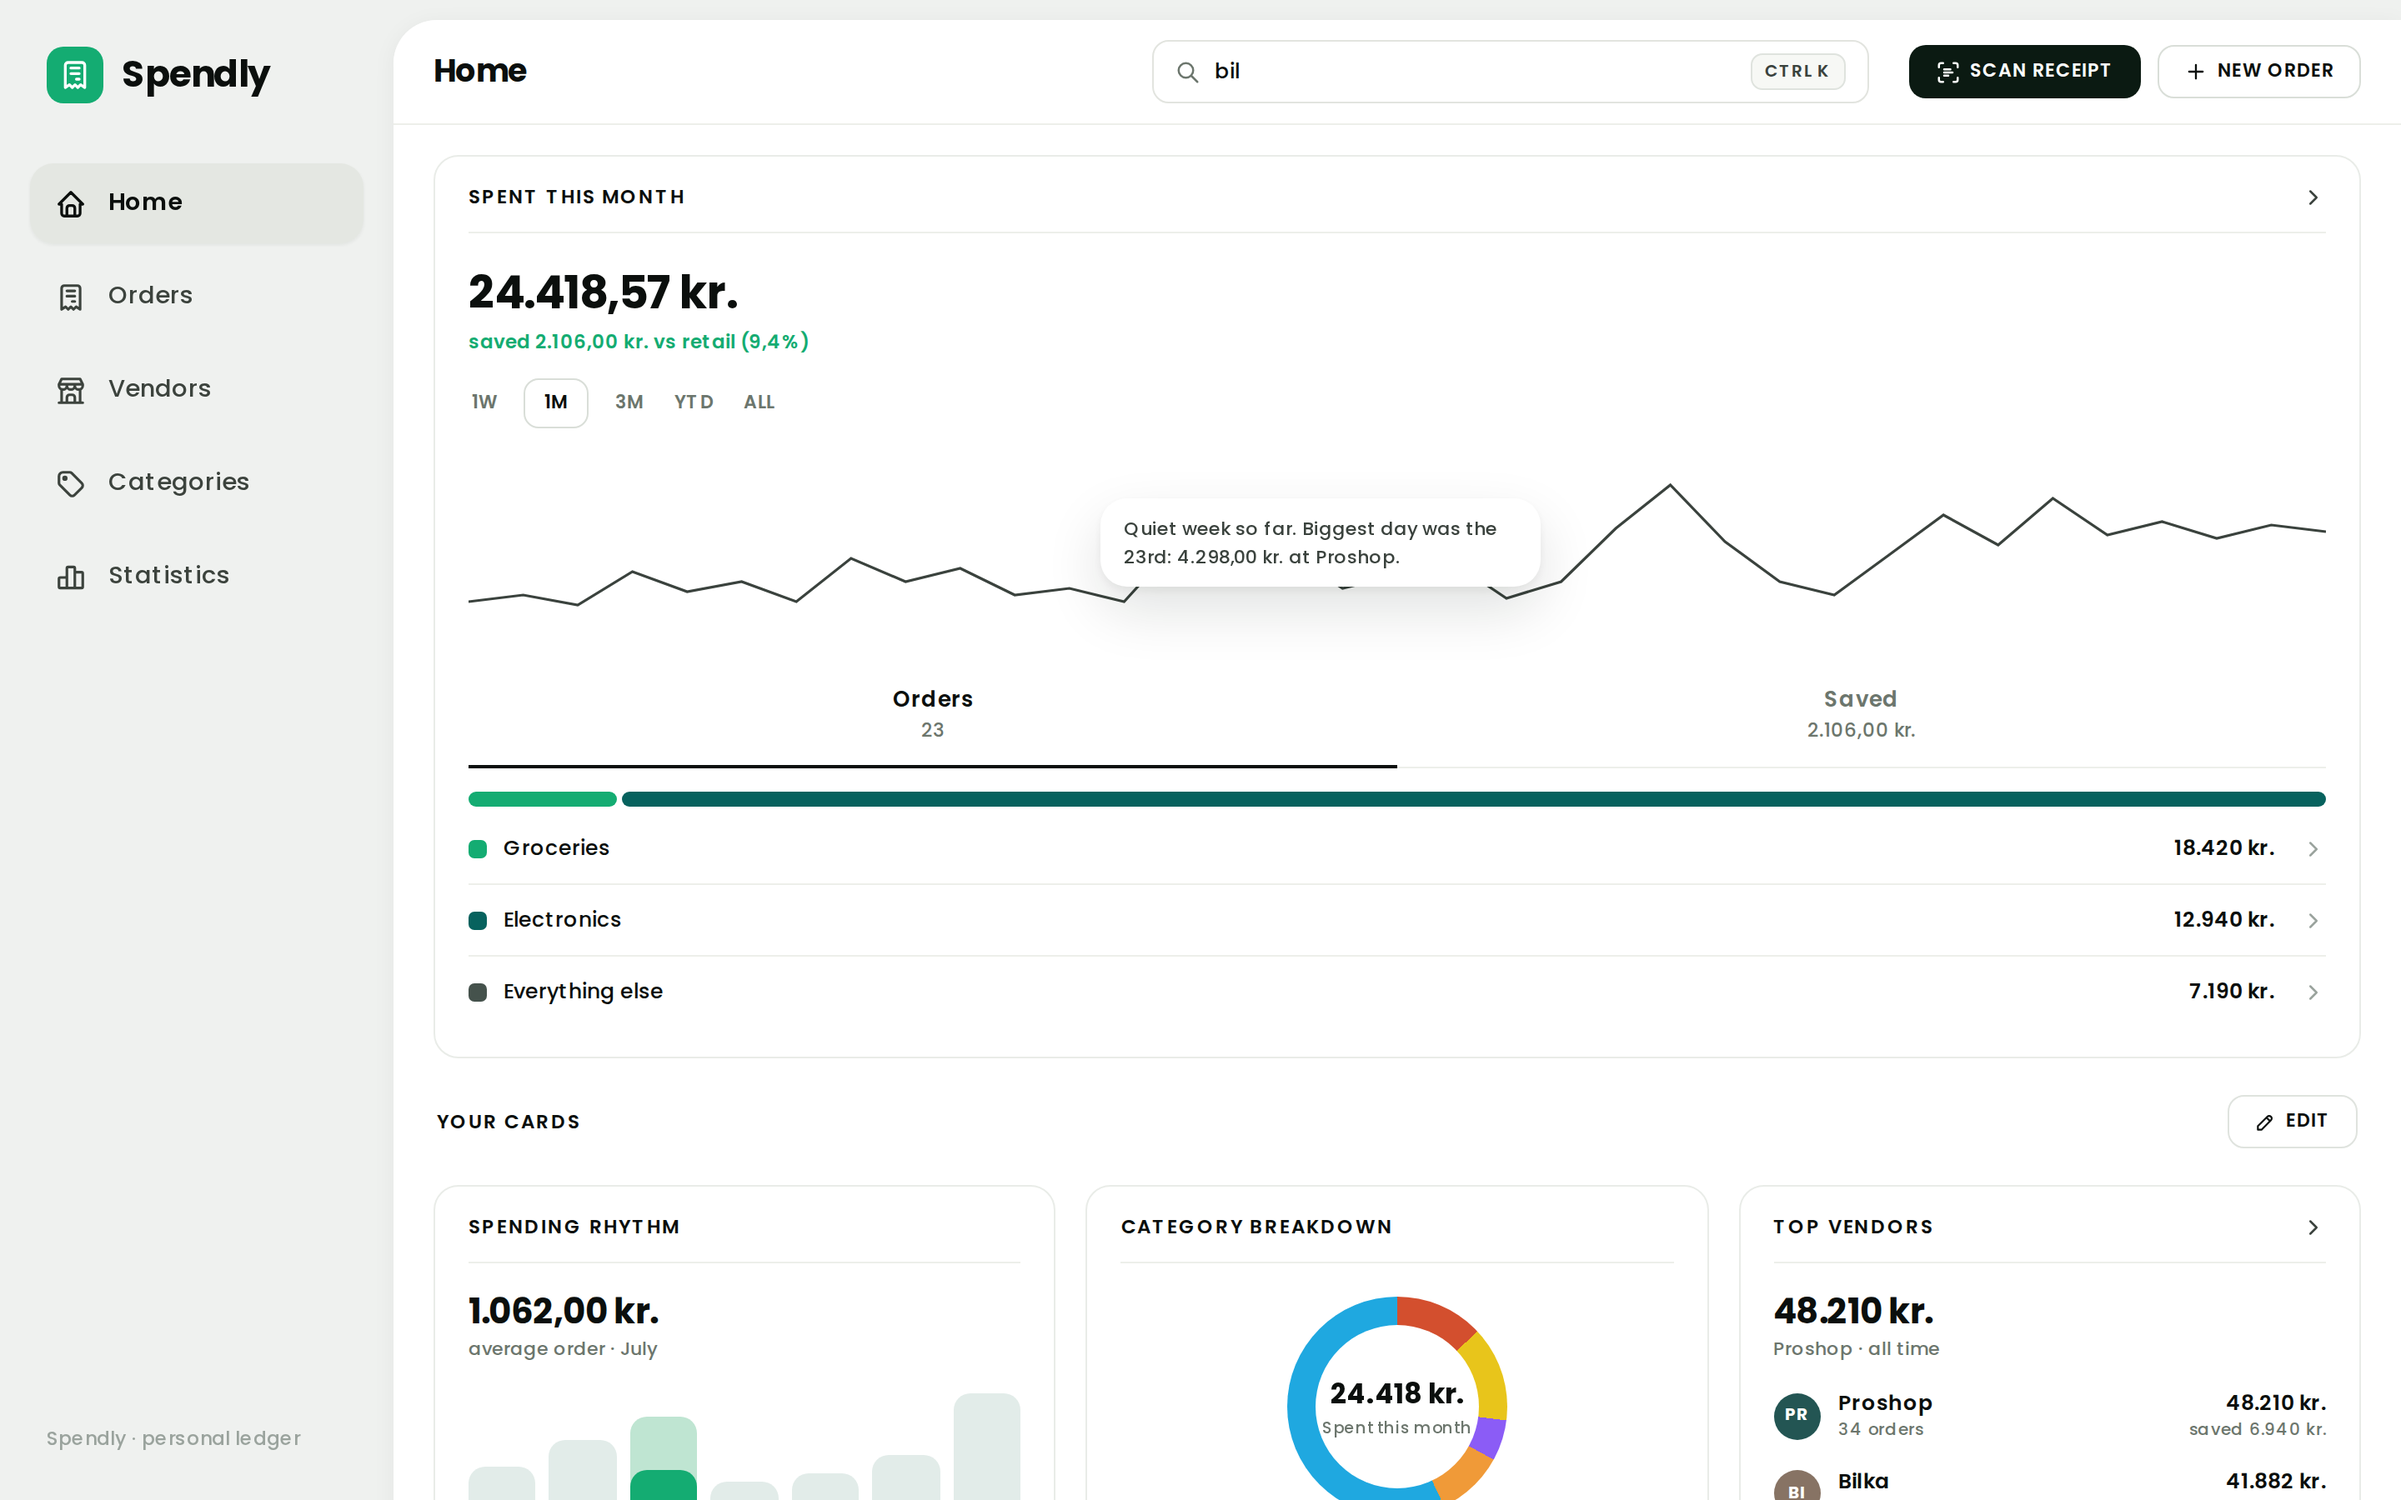
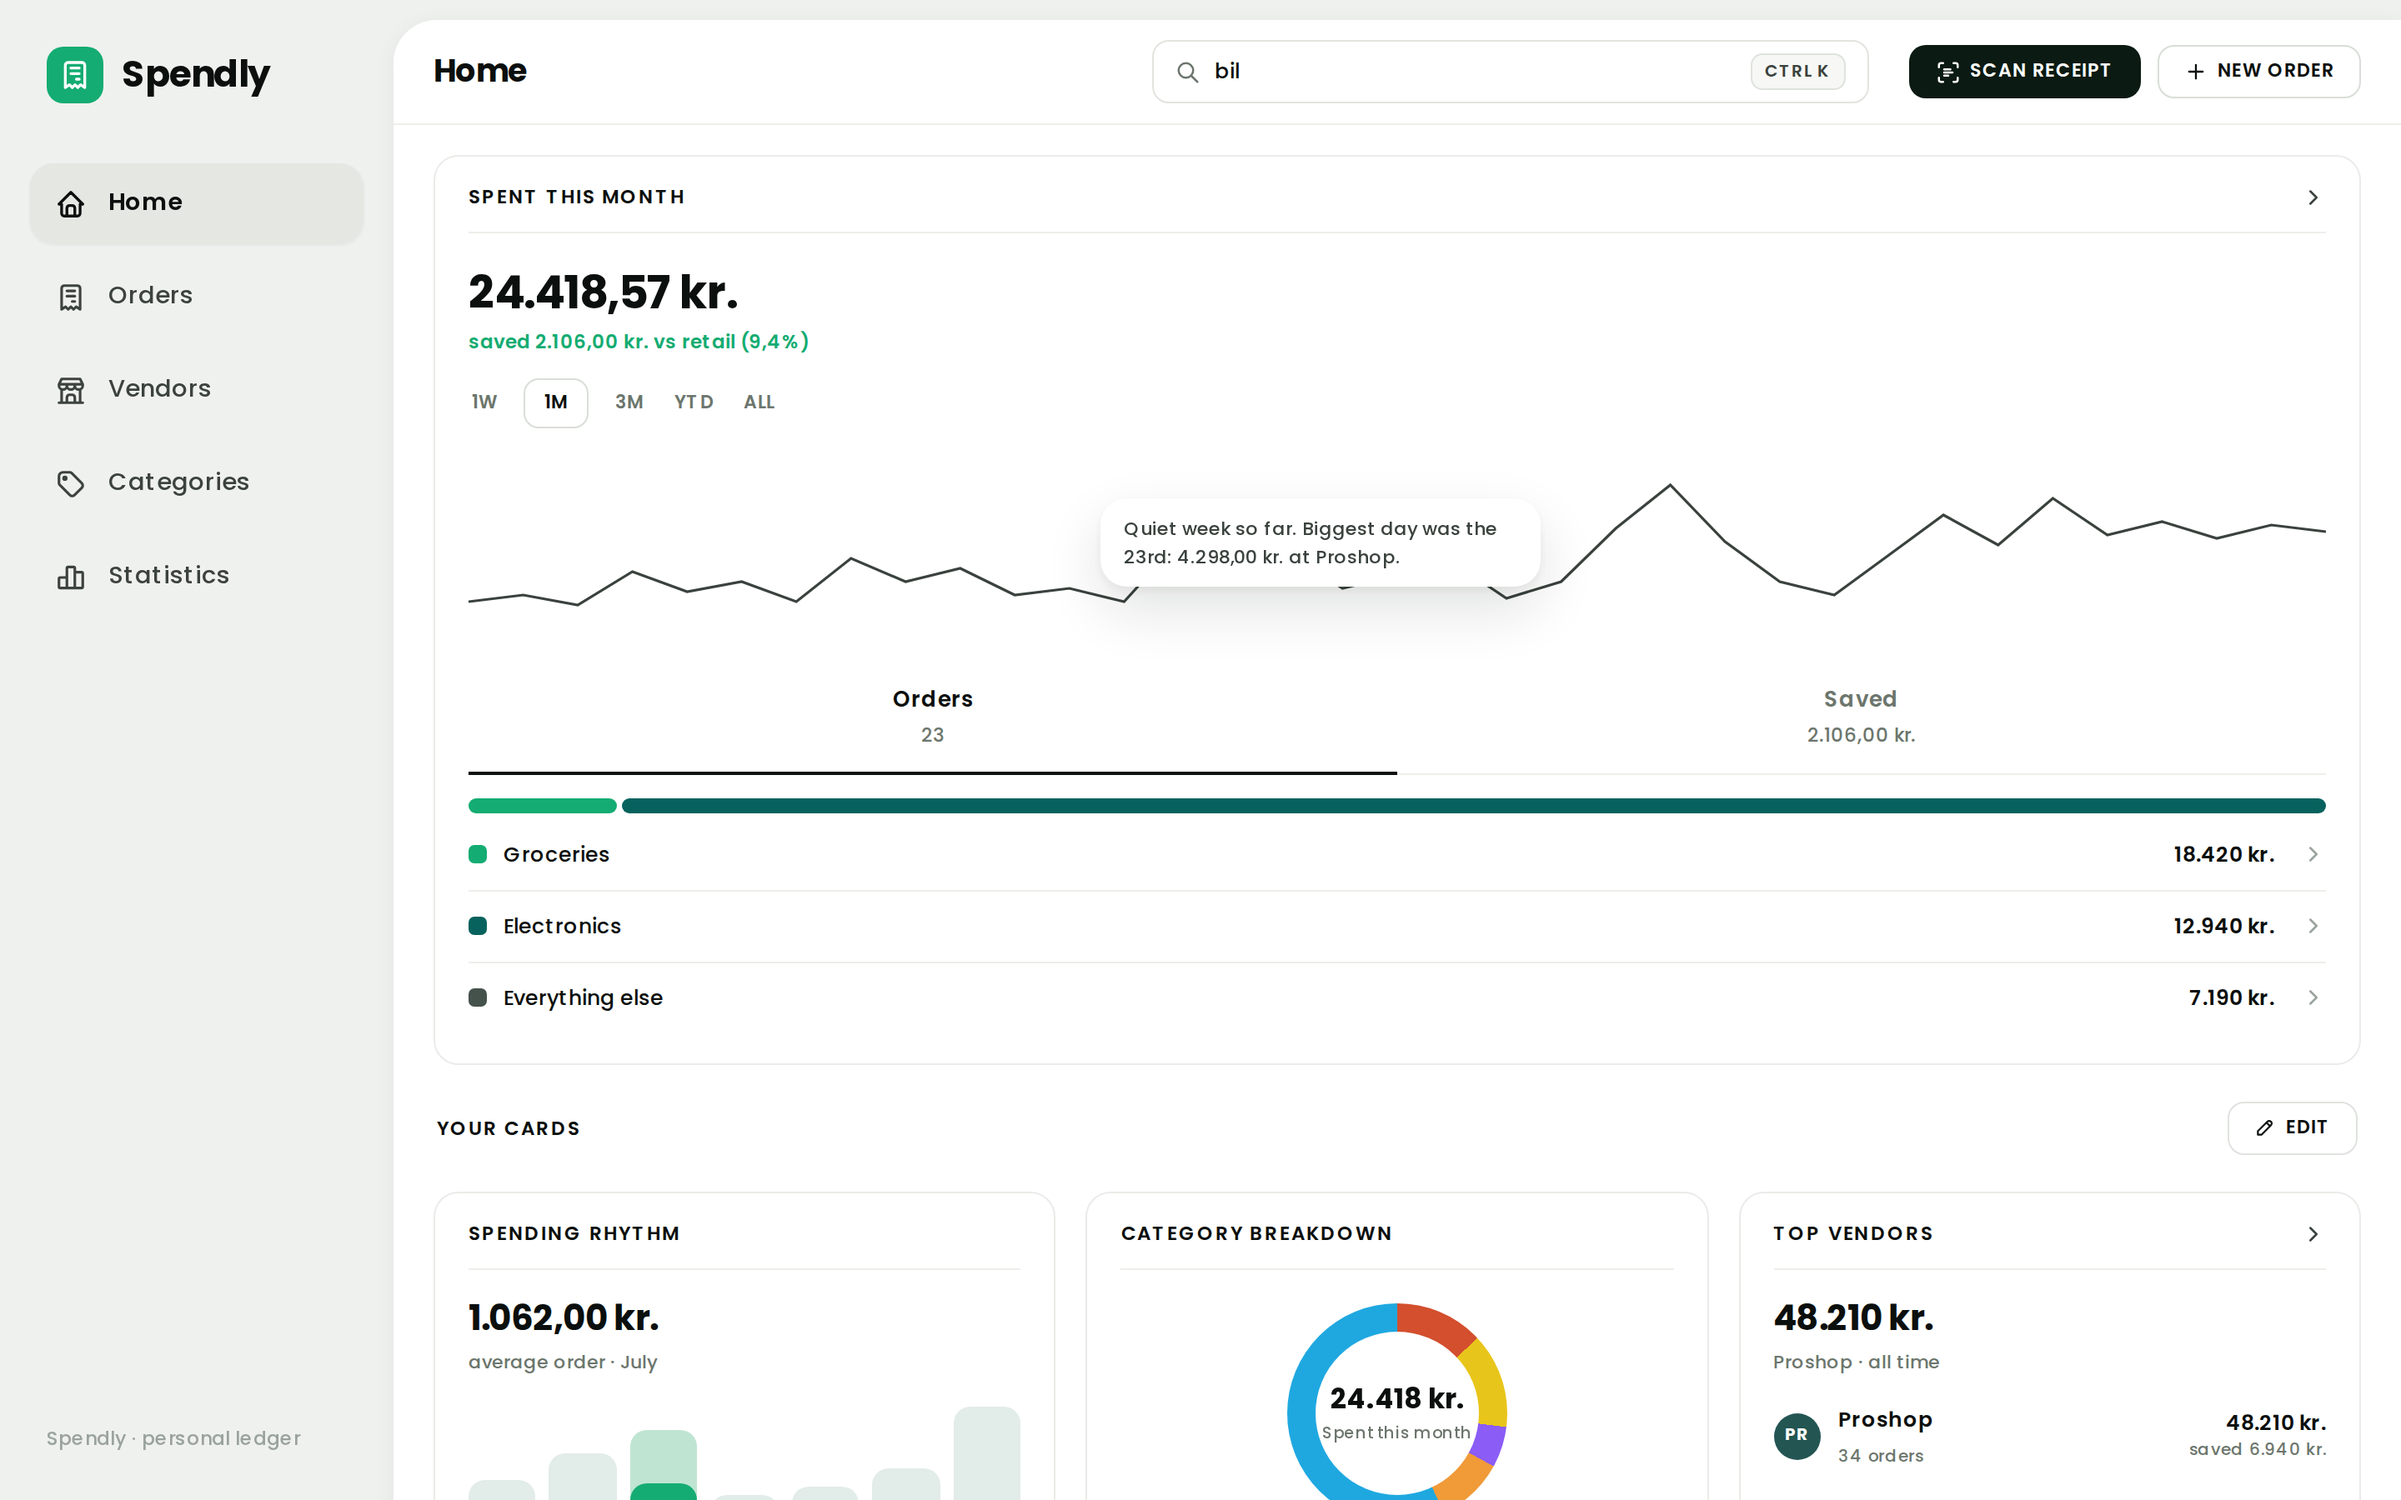
Make spendly.html a whole HTML document, and declare its encoding
The file opened on the viewport meta and ended on </script> -- no doctype,
no html, head or body, and no charset. Browsers synthesise the missing
elements, so it rendered, and two defects rode along:

- No doctype meant quirks mode. document.compatMode read BackCompat, and
  against the same bytes with a doctype prepended, 243 elements sat on
  different geometry -- the phone layout ran 60px short.
- No declared encoding meant the browser guessed. From file:// Chromium
  sniffed UTF-8; served as plain text/html the same bytes decoded as
  windows-1252 and drew "Spent A- July 2026". 99 characters in the file
  are non-ASCII, 68 of them the interpunct.

Adds the skeleton with lang="en", charset first in head so it stays inside
the 1024-byte sniffing window, and a UTF-8 BOM. Both encoding declarations
are deliberate: the BOM beats a server sending the wrong charset header,
the meta tag survives the BOM being stripped.

Verified in Chromium: standards mode and UTF-8 with zero mojibake from
file://, from text/html with no charset, and from text/html with
charset=windows-1252 and iso-8859-1; nav still routes Home -> Orders; no
horizontal overflow at 1440 or 390. Gecko and WebKit unverified -- no
binary available in this environment.

Screenshots regenerated, since standards mode moved 3.4% of the pixels on
home and phone.

Claude-Session: https://claude.ai/code/session_01J58XZtEzX2jajzkdqee7oZ

diff --git a/spendly.html b/spendly.html
@@ -1,3 +1,16 @@
+<!doctype html>
+<!-- The doctype is load-bearing. Without it the page parses in quirks mode, which moved 243
+     elements off their standards-mode geometry and ran the phone layout 60px short. See
+     README section 1, Document skeleton. -->
+<html lang="en">
+<head>
+<meta charset="utf-8">
+<!-- Keep charset the first thing in head. A browser stops sniffing for it after 1024 bytes, and
+     the style block below is ~40KB of font data, so nothing may be inserted above this line --
+     put new head content underneath. With no declaration the encoding is a guess: served as
+     plain text/html this file decoded as windows-1252 and rendered "Spent A- July 2026" for
+     every one of its 99 non-ASCII characters. The BOM outranks a server sending the wrong
+     charset; this tag is what survives the BOM being stripped. See README section 1. -->
 <meta name="viewport" content="width=device-width, initial-scale=1">
 <title>Spendly</title>
 
@@ -671,6 +684,9 @@ label.finput { cursor:pointer; }
   .pbar.indet i { animation-duration:2.6s; animation-timing-function:linear; }
 }
 </style>
+</head>
+
+<body>
 
 <div class="app">
 
@@ -2310,3 +2326,5 @@ label.finput { cursor:pointer; }
 })();
 </script>
 
+</body>
+</html>

diff --git a/README.md b/README.md
@@ -97,6 +97,36 @@ there.
 | **≤1180** | Two-column page grids collapse to one, rail below main; the promo row starts scrolling |
 | **≥2200** | Scales up rather than centring: 16px base text, 300px sidebar, wider content ratio |
 
+### Document skeleton
+
+> [!IMPORTANT]
+> The document must be a whole HTML document: `<!doctype html>`, `<html lang="en">`, `<head>` and
+> `<body>`, with `<meta charset="utf-8">` as the first thing in `<head>`. The file is saved as UTF-8
+> **with** a byte-order mark.
+
+`spendly.html` had none of that. It opened on the viewport tag and ended on `</script>`; a browser
+synthesises the missing elements either way, so the prototype rendered and two defects rode along
+unseen for as long as the file existed.
+
+- **No doctype is quirks mode.** `document.compatMode` read `BackCompat`. Against the same file with
+  a doctype prepended, 243 elements sat on different geometry and the phone layout ran 60px short.
+  Every engine keeps its own quirks list, so a correct render in Blink says nothing about the other
+  two — standards mode is the only mode all three agree on.
+- **No declared encoding is a guess.** Opened from disk, Chromium sniffed UTF-8 and got away with it.
+  Served as plain `text/html`, the same bytes decoded as windows-1252 and drew `Spent Â· July 2026`.
+  99 characters in the file are non-ASCII — 68 `·`, the `…` in placeholders, `×`, `→`, `—`, and the
+  æøå the Poppins subset in [§3](#3-typography) exists to carry.
+
+Keep charset first in `<head>`: a browser stops looking for it after 1024 bytes, and the embedded
+fonts underneath it are ~40KB, so anything inserted above it pushes it out of range. The BOM and the
+meta tag are both there on purpose, because neither covers the other's failure. A server sending the
+wrong `charset` header outranks the meta tag and only the BOM survives it; a pipeline that strips the
+BOM leaves only the meta tag. Together the file decoded as UTF-8 from `file://`, over `text/html`
+with no charset, and over `text/html; charset=windows-1252` — zero mojibake in all four cases.
+
+`lang="en"` is the interface language. The money is Danish (`1.187,25 kr.`) and so are the vendor
+names, but nothing on screen is written in Danish.
+
 ### Viewport
 
 > [!IMPORTANT]
@@ -753,6 +783,10 @@ iOS zooms the page whenever a focused control computes under 16px, and every fie
 - **Drop `maximum-scale=1` from `Components/App.razor`** ([§1](#1-shell-and-layout),
   [§17](#17-ios-and-webkit)). Keep `viewport-fit=cover`, which the mobile tab bar depends on for
   `env(safe-area-inset-bottom)`.
+- **`App.razor` owns the document skeleton** ([§1](#1-shell-and-layout)): doctype, `lang`, and
+  `<meta charset="utf-8">` first in `<head>`. Kestrel sends `charset=utf-8` so the prototype's BOM
+  stops being the thing holding the encoding up — the meta tag still has to be there, because a
+  static export or a CDN in front of it need not be so careful.
 - **Dashboard card choice needs somewhere to live.** There are six DbSets and none of them is
   settings. For one user the cheapest honest option is a key/value preference table (`Key` PK string,
   `Value` JSON string) holding a single row — `dashboard.cards` =
